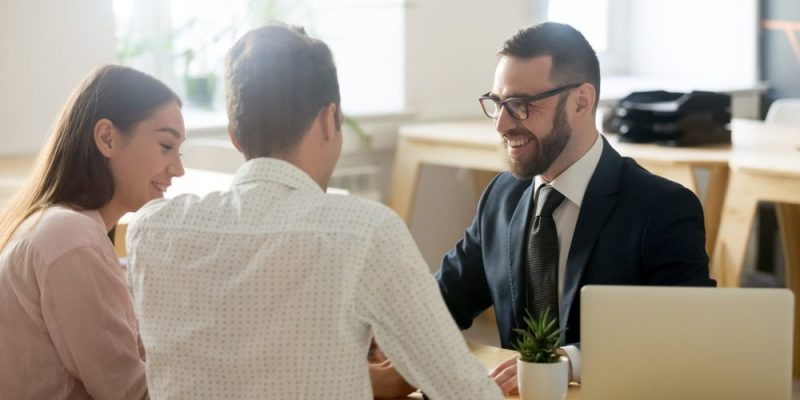
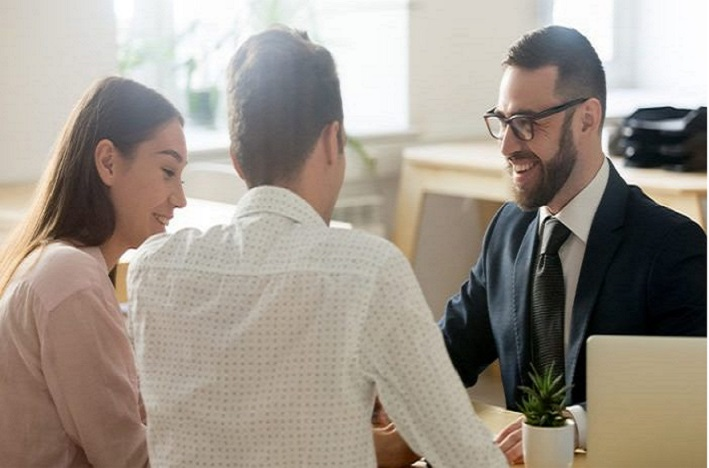
carrusel

diff --git a/paginas/css/index.css b/paginas/css/index.css
@@ -30,6 +30,7 @@ footer .container-fluid .row h3 {
 .body {
   background-image: url(../../imagenes/background-body2-min.jpg);
   background-size: cover;
+  overflow-x: hidden;
 }
 
 /*TIPOGRAFIA Y BORDER DEL LOGO*/
@@ -53,8 +54,7 @@ footer .container-fluid .row h3 {
 
 /*tamaño de las imagenes del carrusel de index y productos*/
 .d-block {
-  width: 100%;
-  height: 300px;
+  object-fit: cover;
 }
 
 /*close comment*/
@@ -67,29 +67,6 @@ div ul .nav-item .nav-link:hover {
 
 /*Aca terminan los valores genericos, se comienza a definir estilos de cada seccion*/
 /*INICIO*/
-.flex-h1-index, .flex-h1-contacto, .flex-h1-somos, .flex-h1-carrito {
-  display: flex;
-  justify-content: center;
-  margin-top: -100px;
-}
-.flex-h1-index .row-h1-index, .flex-h1-contacto .row-h1-index, .flex-h1-contacto .row-h1-contacto, .flex-h1-somos .row-h1-index, .flex-h1-somos .row-h1-somos, .flex-h1-carrito .row-h1-index, .flex-h1-carrito .row-h1-carrito {
-  display: flex;
-  justify-content: center;
-  margin-top: 80px;
-  width: 100%;
-}
-.flex-h1-index .row-h1-index .h1-index, .flex-h1-contacto .row-h1-index .h1-index, .flex-h1-contacto .row-h1-contacto .h1-index, .flex-h1-contacto .row-h1-contacto .h1-contacto, .flex-h1-somos .row-h1-index .h1-index, .flex-h1-somos .row-h1-somos .h1-index, .flex-h1-somos .row-h1-somos .h1-somos, .flex-h1-carrito .row-h1-index .h1-index, .flex-h1-carrito .row-h1-carrito .h1-index, .flex-h1-carrito .row-h1-carrito .h1-carrito {
-  width: 50%;
-  height: 100px;
-  margin-top: 60px;
-  text-align: center;
-  font-family: amatic sc, sans-serif;
-  box-shadow: 5px 5px 20px 5px rgb(51, 51, 51);
-  color: white;
-  background: rgb(100, 100, 100);
-  padding-top: 29px;
-}
-
 .container-padre-pagos {
   margin-top: 50px;
 }
@@ -212,19 +189,18 @@ div ul .nav-item .nav-link:hover {
   .container-padre-pagos .container-pagos {
     height: 170px;
   }
-  .contenedor-opciones {
-    width: 100%;
-  }
   .texto-block {
     display: block;
   }
   .texto-opciones {
     display: none;
   }
-  .contenedor-carrusel-index {
+} /*responsive*/
+@media screen and (min-width: 258px) and (max-width: 500px) {
+  .contenedor-opciones {
     width: 100%;
   }
-} /*responsive*/
+}
 @media screen and (min-width: 421px) {
   .texto-block {
     display: none;
@@ -233,25 +209,6 @@ div ul .nav-item .nav-link:hover {
     display: block;
   }
 } /*responsive*/
-@media screen and (min-width: 258px) and (max-width: 406px) {
-  .flex-h1-index, .flex-h1-contacto, .flex-h1-somos, .flex-h1-carrito {
-    margin-top: -100px;
-    display: flex;
-    align-content: center;
-    align-items: center;
-  }
-  .flex-h1-index .row-h1-index .h1-index, .flex-h1-contacto .row-h1-index .h1-index, .flex-h1-contacto .row-h1-contacto .h1-index, .flex-h1-contacto .row-h1-contacto .h1-contacto, .flex-h1-somos .row-h1-index .h1-index, .flex-h1-somos .row-h1-somos .h1-index, .flex-h1-somos .row-h1-somos .h1-somos, .flex-h1-carrito .row-h1-index .h1-index, .flex-h1-carrito .row-h1-carrito .h1-index, .flex-h1-carrito .row-h1-carrito .h1-carrito {
-    margin-top: 50px;
-    height: 120px;
-    width: 65%;
-  }
-} /*.h1-index-responsive*/
-@media screen and (min-width: 407px) {
-  .flex-h1-index .row-h1-index .h1-index, .flex-h1-contacto .row-h1-index .h1-index, .flex-h1-contacto .row-h1-contacto .h1-index, .flex-h1-contacto .row-h1-contacto .h1-contacto, .flex-h1-somos .row-h1-index .h1-index, .flex-h1-somos .row-h1-somos .h1-index, .flex-h1-somos .row-h1-somos .h1-somos, .flex-h1-carrito .row-h1-index .h1-index, .flex-h1-carrito .row-h1-carrito .h1-index, .flex-h1-carrito .row-h1-carrito .h1-carrito {
-    height: 100px;
-    width: 70%;
-  }
-} /*.h1 responsive*/
 @media screen and (min-width: 290px) {
   .container-padre-pagos .container-pagos {
     height: 126px;
@@ -262,17 +219,9 @@ div ul .nav-item .nav-link:hover {
     height: 100px;
   }
 } /*pagos responsive*/
-@media screen and (min-width: 433px) {
-  .contenedor-carrusel-index {
-    width: 400px;
-  }
-}
 @media screen and (min-width: 473px) {
   .container-padre-pagos .container-pagos {
     height: 75px;
-  }
-  .contenedor-opciones {
-    width: 70%;
   }
   .texto-block {
     display: none;
@@ -282,16 +231,16 @@ div ul .nav-item .nav-link:hover {
   }
 }
 /*PRODUCTOS*/
-.flex-h1-productos {
+.flex-h1-productos, .flex-h1-contacto, .flex-h1-somos, .flex-h1-carrito {
   display: flex;
   justify-content: center;
 }
-.flex-h1-productos .row-h1-productos {
+.flex-h1-productos .row-h1-productos, .flex-h1-contacto .row-h1-productos, .flex-h1-contacto .row-h1-contacto, .flex-h1-somos .row-h1-productos, .flex-h1-somos .row-h1-somos, .flex-h1-carrito .row-h1-productos, .flex-h1-carrito .row-h1-carrito {
   display: flex;
   justify-content: center;
   width: 100%;
 }
-.flex-h1-productos .row-h1-productos .h1-productos {
+.flex-h1-productos .row-h1-productos .h1-productos, .flex-h1-contacto .row-h1-productos .h1-productos, .flex-h1-contacto .row-h1-contacto .h1-productos, .flex-h1-contacto .row-h1-contacto .h1-contacto, .flex-h1-somos .row-h1-productos .h1-productos, .flex-h1-somos .row-h1-somos .h1-productos, .flex-h1-somos .row-h1-somos .h1-somos, .flex-h1-carrito .row-h1-productos .h1-productos, .flex-h1-carrito .row-h1-carrito .h1-productos, .flex-h1-carrito .row-h1-carrito .h1-carrito {
   width: 50%;
   height: 100px;
   text-align: center;
@@ -327,7 +276,7 @@ div ul .nav-item .nav-link:hover {
 
 /*@Media*/
 @media screen and (min-width: 258px) and (max-width: 400px) {
-  .flex-h1-productos .row-h1-productos .h1-productos {
+  .flex-h1-productos .row-h1-productos .h1-productos, .flex-h1-contacto .row-h1-productos .h1-productos, .flex-h1-contacto .row-h1-contacto .h1-productos, .flex-h1-contacto .row-h1-contacto .h1-contacto, .flex-h1-somos .row-h1-productos .h1-productos, .flex-h1-somos .row-h1-somos .h1-productos, .flex-h1-somos .row-h1-somos .h1-somos, .flex-h1-carrito .row-h1-productos .h1-productos, .flex-h1-carrito .row-h1-carrito .h1-productos, .flex-h1-carrito .row-h1-carrito .h1-carrito {
     height: 130px;
   }
 } /*responsive .h1-productos*/

diff --git a/paginas/css/index.scss b/paginas/css/index.scss
@@ -36,8 +36,8 @@ footer {
 }
 .body {
     background-image: url(../../imagenes/background-body2-min.jpg);
-    
     background-size: cover;
+    overflow-x: hidden;
 }
 
 /*TIPOGRAFIA Y BORDER DEL LOGO*/
@@ -62,8 +62,7 @@ footer {
 
 /*tamaño de las imagenes del carrusel de index y productos*/
 .d-block {
-    width: 100%;
-    height: 300px;
+    object-fit: cover;
 }
 /*close comment*/
 div{
@@ -84,29 +83,6 @@ div{
 
 /*INICIO*/
 
-
-.flex-h1-index {
-    display: flex;
-    justify-content: center;
-    margin-top: -50px * 2;
-    .row-h1-index {
-        display: flex;
-        justify-content: center;
-        margin-top: 80px;
-        width: 100%;
-        .h1-index {
-            width: 50%;
-            height: 100px;
-            margin-top: 60px;
-            text-align: center;
-            font-family: amatic sc, sans-serif;
-            box-shadow: 5px 5px 20px 5px rgb(51, 51, 51);
-            color: white;
-            background: rgb(100, 100, 100);
-            padding-top: 29px;
-        }
-    }
-}
 .container-padre-pagos {
     margin-top: 50px;
     .container-pagos {
@@ -234,19 +210,18 @@ div{
             height: 170px;
         } 
     }
-    .contenedor-opciones {
-        width: 100%;
-    }
     .texto-block {
         display: block;
     }
     .texto-opciones{
         display: none;
     }
-    .contenedor-carrusel-index{
+}/*responsive*/
+@media screen and (min-width: 258px) and (max-width: 500px) {
+    .contenedor-opciones {
         width: 100%;
     }
-}/*responsive*/
+}
 @media screen and (min-width: 421px) {
     .texto-block {
         display: none;
@@ -255,31 +230,7 @@ div{
         display: block;
     }
 }/*responsive*/
-@media screen and (min-width: 258px) and (max-width: 406px) {
-    .flex-h1-index{
-        margin-top: -50px * 2;
-        display: flex;
-        align-content: center;
-        align-items: center;
-        .row-h1-index{
-            .h1-index{
-                margin-top: 50px;
-                height: 120px;
-                width: 65%;
-            }
-        }
-    }
-}/*.h1-index-responsive*/
-@media screen and (min-width: 407px){
-    .flex-h1-index{
-        .row-h1-index{
-            .h1-index{
-               height: 100px;
-               width: 70%;
-            }
-        }
-    }
-} /*.h1 responsive*/
+
 @media screen and (min-width: 290px) {
     .container-padre-pagos{
         .container-pagos {
@@ -294,21 +245,11 @@ div{
         } 
     }
 }/*pagos responsive*/
-
-@media screen and (min-width: 433px){
-    .contenedor-carrusel-index{
-        width: 400px;
-    }
-}
-
 @media screen and (min-width: 473px) {
     .container-padre-pagos{
         .container-pagos {
             height: 75px;
         }
-    }
-    .contenedor-opciones{
-        width: 70%;
     }
     .texto-block {
         display: none;
@@ -392,11 +333,11 @@ div{
 
 /* CARRITO*/
 .flex-h1-carrito {
-    @extend .flex-h1-index;
+    @extend .flex-h1-productos;
     .row-h1-carrito {
-        @extend .row-h1-index;    
+        @extend .row-h1-productos;    
         .h1-carrito {
-            @extend .h1-index;
+            @extend .h1-productos;
         }
     }
 }
@@ -407,9 +348,9 @@ div{
 
 @media screen and (min-width: 407x) {
     .flex-h1-carrito {
-        @extend .flex-h1-index;
+        @extend .flex-h1-productos;
         .row-h1-carrito {
-            @extend .row-h1-index;    
+            @extend .row-h1-productos;    
             .h1-carrito {
                 height: 100px;
                 width: 70%;
@@ -419,11 +360,11 @@ div{
 }
 /*QUIENES SOMOS*/
 .flex-h1-somos {
-    @extend .flex-h1-index;
+    @extend .flex-h1-productos;
     .row-h1-somos{
-        @extend .row-h1-index;
+        @extend .row-h1-productos;
         .h1-somos {
-            @extend .h1-index;
+            @extend .h1-productos;
         }
     }
 }
@@ -509,14 +450,14 @@ div{
 .flex-h1-contacto {
     display: flex;
     justify-content: center;
-    @extend .flex-h1-index;
+    @extend .flex-h1-productos;
     .row-h1-contacto {
-        @extend .row-h1-index;
+        @extend .row-h1-productos;
         margin-top: 120px;
         width: 100%;
         height: 100px;
         .h1-contacto {
-            @extend .h1-index;
+            @extend .h1-productos;
         }
     }
 }

diff --git a/index.html b/index.html
@@ -88,17 +88,8 @@
                                 </div>
                               </div>
                             </div>
-                            <div class="carousel-item container-fluid">
-                              <img src="./imagenes/pagos.jpg" class="d-block w-100" alt="pagos"> 
-                              <div class="container-fluid flex-text">
-                                <div>
-                                    <h3 class="texto-opciones">Aceptamos todos los métodos de pago.</h3>
-                                    <h3 class="texto-block">Métodos de pago.</h3>
-                                </div>
-                              </div>
-                            </div>
                             <div class="carousel-item">
-                              <img src="./imagenes/atencion.jpg" class="d-block w-100" alt="atencion">
+                              <img src="./imagenes/atencion.jpg" class="d-block w-100 imagen-carrusel" alt="atencion">
                               <div class="container-fluid flex-text">
                                 <div>
                                   <h3 class="texto-opciones">Estamos para resolver tus dudas</h3>

diff --git a/paginas/productos.html b/paginas/productos.html
@@ -135,7 +135,7 @@
                             <div class="card mb-3">
                                 <div class="row g-0">
                                     <div class="col-md-6">
-                                        <img src="../imagenes/bici.jpg" class="img-fluid rounded-start" alt="Soporte-de-bicicleta">
+                                        <img src="../imagenes/bicicleta.jpg" class="img-fluid rounded-start" alt="Soporte-de-bicicleta">
                                     </div>
                                     <div class="col-md-6">
                                         <div class="card-body">
